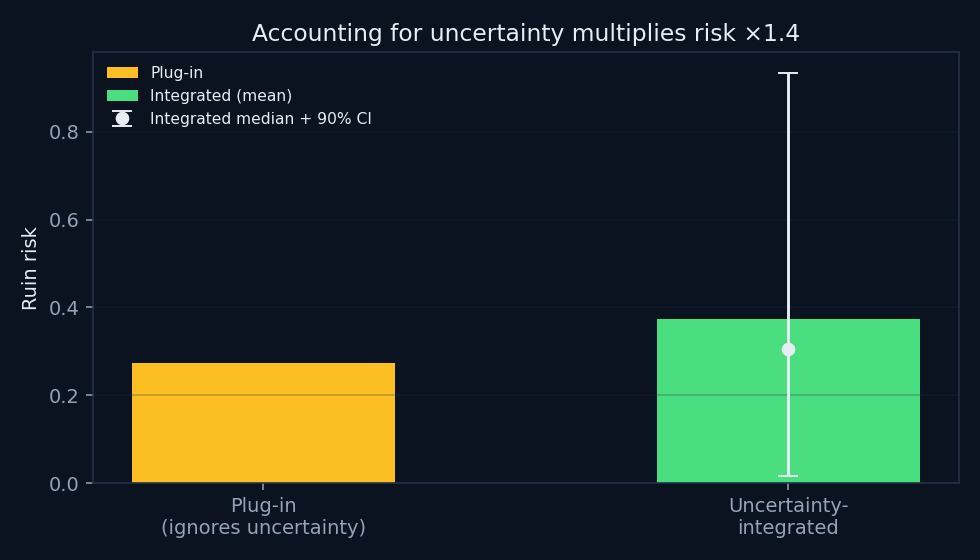
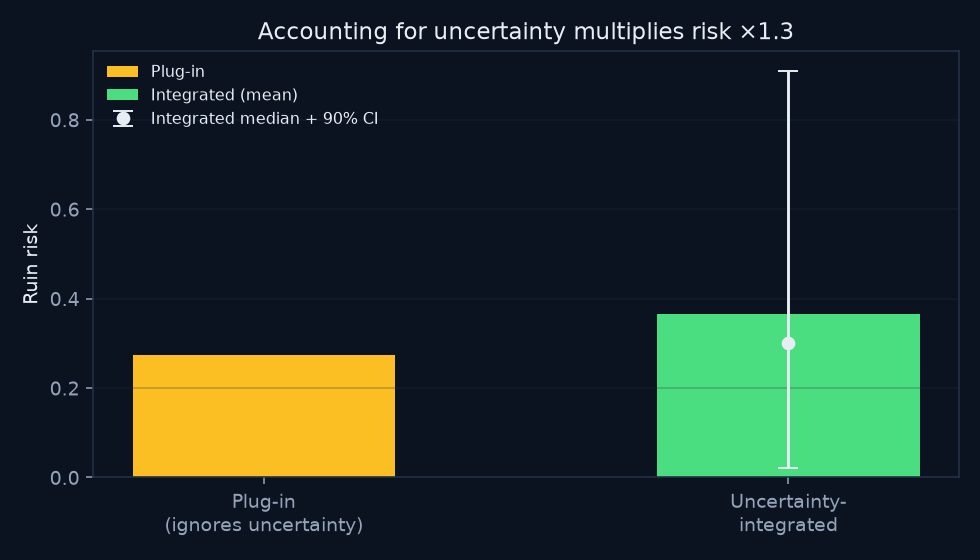
Regenerate the uncertainty demo with the block stability check
reports/tables/uncertainty_risk_demo.json (and its provenance and figures)
rerun at 6cc3626 with unchanged settings and seeds. Its 50 blocks are
steady (stability p = 0.55), so the SE is no longer widened: 4.37 -> 3.98.
Posterior SD 4.00 -> 3.70, P(edge > 0) 65.2% -> 66.8%, average ruin risk
37.4% -> 36.5% (x1.37 -> x1.34; plug-in 27.3% unchanged), 95% interval of
risk 0.9-97.3% -> 1.2-95.7%. The old code reproduced the saved file here
first, so the change comes from the check alone.

The Risk Lab reference describes the stability check instead of the
autocorrelation adjustment; docs quoting the case and the old standalone
page are updated; CHANGELOG lists every changed number.

diff --git a/index.html b/index.html
@@ -2144,7 +2144,7 @@ const RANKS="23456789TJQKA";
 const C={bg:'#0B1220',grid:'#243247',accent:'#38BDF8',ruin:'#F87171',pos:'#4ADE80',
   median:'#FBBF24',text:'#E6EDF3',muted:'#94A3B8',band:'rgba(56,189,248,0.16)'};
 const CFG={displayModeBar:false,responsive:true};
[2 lines of base64/hex data omitted]
 function layout(title,xt,yt,extra){return Object.assign({title:{text:title,font:{color:C.text,size:16}},
   paper_bgcolor:'rgba(0,0,0,0)',plot_bgcolor:'rgba(0,0,0,0)',font:{color:C.muted,size:13},
   margin:{l:62,r:18,t:44,b:48},xaxis:{title:xt,gridcolor:C.grid,zerolinecolor:C.grid},
@@ -4174,7 +4174,8 @@ function renderUncertaintyReference(){
   const sources=[
     ['Synthetic history',`${cfg.data.n_blocks} blocks × ${cfg.data.block_hands.toLocaleString()} hands; generating win rate ${cfg.data.true_winrate} and SD ${cfg.data.true_std} bb/100; seed ${cfg.data.seed}.`],
     ['Observed estimate',`${estimate.winrate_bb100.toFixed(2)} bb/100; estimated SD ${estimate.std_bb100.toFixed(2)} bb/100.`],
-    ['Estimation uncertainty',`Autocorrelation-adjusted SE ${estimate.se_winrate_adjusted.toFixed(2)} bb/100; effective blocks ${estimate.effective_n_blocks.toFixed(1)}. This SE enters the posterior.`],
+    ['Estimation uncertainty',`Standard error ${estimate.se_winrate_adjusted.toFixed(2)} bb/100${estimate.se_multiplier>1?`, widened ×${estimate.se_multiplier.toFixed(2)}`:''}. Stability check: ${!estimate.stability_groups?'not run (fewer than 20 blocks)'
+      :`the win rate ${estimate.stability_flag?'differs':'does not differ'} between ${estimate.stability_groups} consecutive groups of blocks more than chance allows (p = ${estimate.stability_p.toFixed(2)})`}. This SE enters the posterior.`],
     ['Prior',`Normal with mean ${r.prior.mean} and SD ${r.prior.std} bb/100.`],
     ['Risk calculation',`Finite-horizon Brownian first-passage model; threshold ${cfg.risk.ruin_threshold_bb} bb; estimated volatility held fixed; posterior draw seed ${cfg.seed}.`],
     ['Saved output',`${provenance.timestamp_utc.slice(0,10)} UTC. The page reads the existing result and settings; this presentation update does not rerun the analysis.`],

diff --git a/site/index.html b/site/index.html
@@ -2144,7 +2144,7 @@ const RANKS="23456789TJQKA";
 const C={bg:'#0B1220',grid:'#243247',accent:'#38BDF8',ruin:'#F87171',pos:'#4ADE80',
   median:'#FBBF24',text:'#E6EDF3',muted:'#94A3B8',band:'rgba(56,189,248,0.16)'};
 const CFG={displayModeBar:false,responsive:true};
[2 lines of base64/hex data omitted]
 function layout(title,xt,yt,extra){return Object.assign({title:{text:title,font:{color:C.text,size:16}},
   paper_bgcolor:'rgba(0,0,0,0)',plot_bgcolor:'rgba(0,0,0,0)',font:{color:C.muted,size:13},
   margin:{l:62,r:18,t:44,b:48},xaxis:{title:xt,gridcolor:C.grid,zerolinecolor:C.grid},
@@ -4174,7 +4174,8 @@ function renderUncertaintyReference(){
   const sources=[
     ['Synthetic history',`${cfg.data.n_blocks} blocks × ${cfg.data.block_hands.toLocaleString()} hands; generating win rate ${cfg.data.true_winrate} and SD ${cfg.data.true_std} bb/100; seed ${cfg.data.seed}.`],
     ['Observed estimate',`${estimate.winrate_bb100.toFixed(2)} bb/100; estimated SD ${estimate.std_bb100.toFixed(2)} bb/100.`],
-    ['Estimation uncertainty',`Autocorrelation-adjusted SE ${estimate.se_winrate_adjusted.toFixed(2)} bb/100; effective blocks ${estimate.effective_n_blocks.toFixed(1)}. This SE enters the posterior.`],
+    ['Estimation uncertainty',`Standard error ${estimate.se_winrate_adjusted.toFixed(2)} bb/100${estimate.se_multiplier>1?`, widened ×${estimate.se_multiplier.toFixed(2)}`:''}. Stability check: ${!estimate.stability_groups?'not run (fewer than 20 blocks)'
+      :`the win rate ${estimate.stability_flag?'differs':'does not differ'} between ${estimate.stability_groups} consecutive groups of blocks more than chance allows (p = ${estimate.stability_p.toFixed(2)})`}. This SE enters the posterior.`],
     ['Prior',`Normal with mean ${r.prior.mean} and SD ${r.prior.std} bb/100.`],
     ['Risk calculation',`Finite-horizon Brownian first-passage model; threshold ${cfg.risk.ruin_threshold_bb} bb; estimated volatility held fixed; posterior draw seed ${cfg.seed}.`],
     ['Saved output',`${provenance.timestamp_utc.slice(0,10)} UTC. The page reads the existing result and settings; this presentation update does not rerun the analysis.`],

diff --git a/standalone/poker-analytics-suite.html b/standalone/poker-analytics-suite.html
@@ -2144,7 +2144,7 @@ const RANKS="23456789TJQKA";
 const C={bg:'#0B1220',grid:'#243247',accent:'#38BDF8',ruin:'#F87171',pos:'#4ADE80',
   median:'#FBBF24',text:'#E6EDF3',muted:'#94A3B8',band:'rgba(56,189,248,0.16)'};
 const CFG={displayModeBar:false,responsive:true};
[2 lines of base64/hex data omitted]
 function layout(title,xt,yt,extra){return Object.assign({title:{text:title,font:{color:C.text,size:16}},
   paper_bgcolor:'rgba(0,0,0,0)',plot_bgcolor:'rgba(0,0,0,0)',font:{color:C.muted,size:13},
   margin:{l:62,r:18,t:44,b:48},xaxis:{title:xt,gridcolor:C.grid,zerolinecolor:C.grid},
@@ -4174,7 +4174,8 @@ function renderUncertaintyReference(){
   const sources=[
     ['Synthetic history',`${cfg.data.n_blocks} blocks × ${cfg.data.block_hands.toLocaleString()} hands; generating win rate ${cfg.data.true_winrate} and SD ${cfg.data.true_std} bb/100; seed ${cfg.data.seed}.`],
     ['Observed estimate',`${estimate.winrate_bb100.toFixed(2)} bb/100; estimated SD ${estimate.std_bb100.toFixed(2)} bb/100.`],
-    ['Estimation uncertainty',`Autocorrelation-adjusted SE ${estimate.se_winrate_adjusted.toFixed(2)} bb/100; effective blocks ${estimate.effective_n_blocks.toFixed(1)}. This SE enters the posterior.`],
+    ['Estimation uncertainty',`Standard error ${estimate.se_winrate_adjusted.toFixed(2)} bb/100${estimate.se_multiplier>1?`, widened ×${estimate.se_multiplier.toFixed(2)}`:''}. Stability check: ${!estimate.stability_groups?'not run (fewer than 20 blocks)'
+      :`the win rate ${estimate.stability_flag?'differs':'does not differ'} between ${estimate.stability_groups} consecutive groups of blocks more than chance allows (p = ${estimate.stability_p.toFixed(2)})`}. This SE enters the posterior.`],
     ['Prior',`Normal with mean ${r.prior.mean} and SD ${r.prior.std} bb/100.`],
     ['Risk calculation',`Finite-horizon Brownian first-passage model; threshold ${cfg.risk.ruin_threshold_bb} bb; estimated volatility held fixed; posterior draw seed ${cfg.seed}.`],
     ['Saved output',`${provenance.timestamp_utc.slice(0,10)} UTC. The page reads the existing result and settings; this presentation update does not rerun the analysis.`],

diff --git a/standalone/build/app.js b/standalone/build/app.js
@@ -2038,7 +2038,8 @@ function renderUncertaintyReference(){
   const sources=[
     ['Synthetic history',`${cfg.data.n_blocks} blocks × ${cfg.data.block_hands.toLocaleString()} hands; generating win rate ${cfg.data.true_winrate} and SD ${cfg.data.true_std} bb/100; seed ${cfg.data.seed}.`],
     ['Observed estimate',`${estimate.winrate_bb100.toFixed(2)} bb/100; estimated SD ${estimate.std_bb100.toFixed(2)} bb/100.`],
-    ['Estimation uncertainty',`Autocorrelation-adjusted SE ${estimate.se_winrate_adjusted.toFixed(2)} bb/100; effective blocks ${estimate.effective_n_blocks.toFixed(1)}. This SE enters the posterior.`],
+    ['Estimation uncertainty',`Standard error ${estimate.se_winrate_adjusted.toFixed(2)} bb/100${estimate.se_multiplier>1?`, widened ×${estimate.se_multiplier.toFixed(2)}`:''}. Stability check: ${!estimate.stability_groups?'not run (fewer than 20 blocks)'
+      :`the win rate ${estimate.stability_flag?'differs':'does not differ'} between ${estimate.stability_groups} consecutive groups of blocks more than chance allows (p = ${estimate.stability_p.toFixed(2)})`}. This SE enters the posterior.`],
     ['Prior',`Normal with mean ${r.prior.mean} and SD ${r.prior.std} bb/100.`],
     ['Risk calculation',`Finite-horizon Brownian first-passage model; threshold ${cfg.risk.ruin_threshold_bb} bb; estimated volatility held fixed; posterior draw seed ${cfg.seed}.`],
     ['Saved output',`${provenance.timestamp_utc.slice(0,10)} UTC. The page reads the existing result and settings; this presentation update does not rerun the analysis.`],

diff --git a/standalone/bankroll-risk-lab.html b/standalone/bankroll-risk-lab.html
@@ -131,7 +131,7 @@
     <div class="strand">
       <div class="se">STRAND 03 · UNCERTAINTY</div>
       <h3>Bayesian propagation of parameter uncertainty</h3>
-      <p>The win rate is estimated, not known. Plugging in a point estimate reports <span class="big">27.3%</span> ruin; integrating over the parameter posterior raises it to <span class="big">37.4%</span> — a factor of <span class="big">×1.37</span>. Ignoring estimation error makes the model look far safer than it is.</p>
+      <p>The win rate is estimated, not known. Plugging in a point estimate reports <span class="big">27.3%</span> ruin; integrating over the parameter posterior raises it to <span class="big">36.5%</span> — a factor of <span class="big">×1.34</span>. Ignoring estimation error makes the model look far safer than it is.</p>
     </div>
     <div class="strand">
       <div class="se">STRAND 04 · ROBUSTNESS</div>

diff --git a/CHANGELOG.md b/CHANGELOG.md
@@ -57,6 +57,47 @@ How each change splits up at the same seed:
   Carlo convergence experiment keeps endpoint-only monitoring on purpose,
   because that is its estimand.
 
+## 2026-10-22 — `src/inference.py`: the page's stability check instead of lag-1
+
+- **`estimate_edge` widens the standard error the way the page does.** The
+  blocks, in time order, are cut into up to 10 consecutive groups and their
+  win rates compared (chi-square, flagged at p < 0.05). When the check flags,
+  the SE becomes the between-group one (×1 to ×10). It replaces the lag-1
+  autocorrelation adjustment, which `checks/session-lengths/` showed rarely
+  noticed a drifting win rate (5–14% of drifting histories, against 20–40%)
+  and barely helped when it did. `widen=None` follows the check, `True`
+  always widens, `False` never. New fields: `stability_groups`,
+  `stability_q`, `stability_p`, `stability_flag`, `se_between_groups`,
+  `stability_multiplier`, `se_multiplier`; `lag1_autocorr` and
+  `effective_n_blocks` are gone. Fewer than 20 blocks: no check, and a warning.
+- **Same check on both sides.** `checks/session-import-python/` now takes the
+  stability numbers from `estimate_edge` itself, not from its own copy; the
+  same 5,600 numbers agree as before.
+- **The saved uncertainty case changed** (`reports/tables/uncertainty_risk_demo.json`,
+  the Risk Lab's "Uncertainty" reference, figures in `reports/figures/`).
+  Its 50 blocks are steady (stability p = 0.55), so the SE is no longer
+  widened: 4.37 → 3.98 bb/100 (lag-1 had widened it ×1.10 for a correlation
+  of +0.09).
+
+  | | Before | Now |
+  |---|---|---|
+  | SE used for the posterior | 4.37 | 3.98 |
+  | 95% CI for the win rate | −6.92 to 10.63 | −6.14 to 9.86 |
+  | Posterior mean / SD (bb/100) | 1.56 / 4.00 | 1.60 / 3.70 |
+  | P(win rate > 0) | 65.2% | 66.8% |
+  | Plug-in ruin risk | 27.3% | 27.3% (unchanged) |
+  | Average ruin risk over the posterior | 37.4% | 36.5% |
+  | Average ÷ plug-in | ×1.37 | ×1.34 |
+  | Median ruin risk | 30.4% | 30.0% |
+  | 95% posterior interval of ruin risk | 0.9%–97.3% | 1.2%–95.7% |
+  | P(risk > 5% / 10% / 25%) | 85.9% / 75.5% / 55.3% | 87.6% / 76.8% / 55.2% |
+
+  Before regenerating, the old code reproduced the saved file on this machine
+  to the last digit or two of floating point, so the change comes from the
+  check alone. Settings and seeds are unchanged; the provenance now records
+  commit 6cc3626 and macOS with numpy 2.5.4 / scipy 1.18.1 (was Linux, numpy
+  2.2.6 / scipy 1.15.3).
+
 ## 2026-10-22 — Bankroll Risk: import your sessions (CSV)
 
 - **Import a CSV of sessions** instead of typing totals: one row per session
@@ -94,7 +135,8 @@ How each change splits up at the same seed:
   `src/inference.py`) flagged drift only 5–13.5% of the time and widening by it
   barely helped, and a variance-ratio F test raised about 16% false alarms
   with heavy-tailed sessions. The page uses a block-based stability check and
-  a test on absolute deviations instead. `src/inference.py` is unchanged.
+  a test on absolute deviations instead. (`src/inference.py` followed in
+  the entry above.)
 - **Checked against the Python research code** (`checks/session-import-python/`,
   internal, in CI): 5 synthetic files (1,040 sessions) read by pandas, with
   every selection and grouping recomputed by `estimate_edge` and scipy; 5,600

diff --git a/docs/application_summary.md b/docs/application_summary.md
@@ -89,7 +89,7 @@ seed, and is covered by 108 unit, statistical, and property-based tests.
   shrinks, but underestimates ruin by ≈8% at a 500-hand step; a Brownian-bridge
   correction removes almost all of that bias at negligible cost.
 - **Plug-in estimates understate risk.** With an observed 1.86 bb/100 edge over
-  50k hands, the win rate's 95% CI still includes zero and P(edge > 0) ≈ 65%;
+  50k hands, the win rate's 95% CI still includes zero and P(edge > 0) ≈ 67%;
   propagating that uncertainty raises modeled ruin risk from 27% (plug-in) to
   37% (integrated), and puts the probability that true risk exceeds 25% at ≈55%.
 - **Dependence, not marginal tails, is the dangerous misspecification.** Holding
@@ -128,8 +128,9 @@ This project foregrounds the distinction between **sampling uncertainty,
 parameter uncertainty, and model uncertainty**. It separates the volatility of
 outcomes (which does not shrink with data) from the **standard error of the
 estimated edge** (which does), estimates that edge from block-level history with
-autocorrelation-adjusted intervals, and then places a Normal prior on the true
-win rate to form a conjugate posterior. The key statistical result is
+intervals widened when a stability check finds the win rate changing over time,
+and then places a Normal prior on the true win rate to form a conjugate
+posterior. The key statistical result is
 **posterior predictive risk**: integrating parameter uncertainty through a convex
 ruin-risk function shows that a **plug-in estimator materially understates risk**,
 a point made quantitative with credible intervals and threshold-exceedance

diff --git a/docs/case_study_imperfect_information.md b/docs/case_study_imperfect_information.md
@@ -66,9 +66,9 @@ strategy, and translating that strategy back to the full game in real time.
   Monte Carlo error follows the expected rate (fitted log-log slope
   **−0.55 ± 0.03 ≈ O(N⁻¹ᐟ²)**).
 - **Uncertainty matters:** with an observed 1.86 bb/100 edge over 50k hands, the
-  win rate's confidence interval still includes zero (P(edge > 0) ≈ **65%**);
+  win rate's confidence interval still includes zero (P(edge > 0) ≈ **67%**);
   propagating that uncertainty raises modeled ruin risk from **27.3%** (plug-in)
-  to **37.4%** (**×1.37**).
+  to **36.5%** (**×1.34**).
 - **Model risk:** at the same +3 bb/100 edge (30 buy-ins, 90 bb/100, 100k
   hands, ruin observed at 100-hand checkpoints; `reports/case-study/assumptions.json`),
   swings that carry over between steps raise ruin risk — AR(1) **×2.87**, with the

diff --git a/docs/portfolio_page_prompt.md b/docs/portfolio_page_prompt.md
@@ -163,8 +163,8 @@ Canonical hero scenario: **win rate 3 bb/100, std 90 bb/100, bankroll 3,000 bb
   step → 1.
 - Monte Carlo convergence: fitted log-log slope **−0.55 ± 0.03** (≈ O(N^-1/2)).
 - Bayesian (edge 1.86 bb/100 over 50k hands; SE 3.98; 95% CI includes 0;
-  P(edge > 0) ≈ **65%**): plug-in ruin **27.3%** → uncertainty-integrated
-  **37.4%** (**×1.37**); P(true risk > 25%) ≈ **55%**.
+  P(edge > 0) ≈ **67%**): plug-in ruin **27.3%** → uncertainty-integrated
+  **36.5%** (**×1.34**); P(true risk > 25%) ≈ **55%**.
 - Model risk (same +3 bb/100 edge, 30 BI, 100k hands, ruin observed at 100-hand
   checkpoints; `reports/case-study/assumptions.json`): AR(1) dependence **×2.87**
   (same spread per step, wider total); regime switching **×1.65**, but with wider
